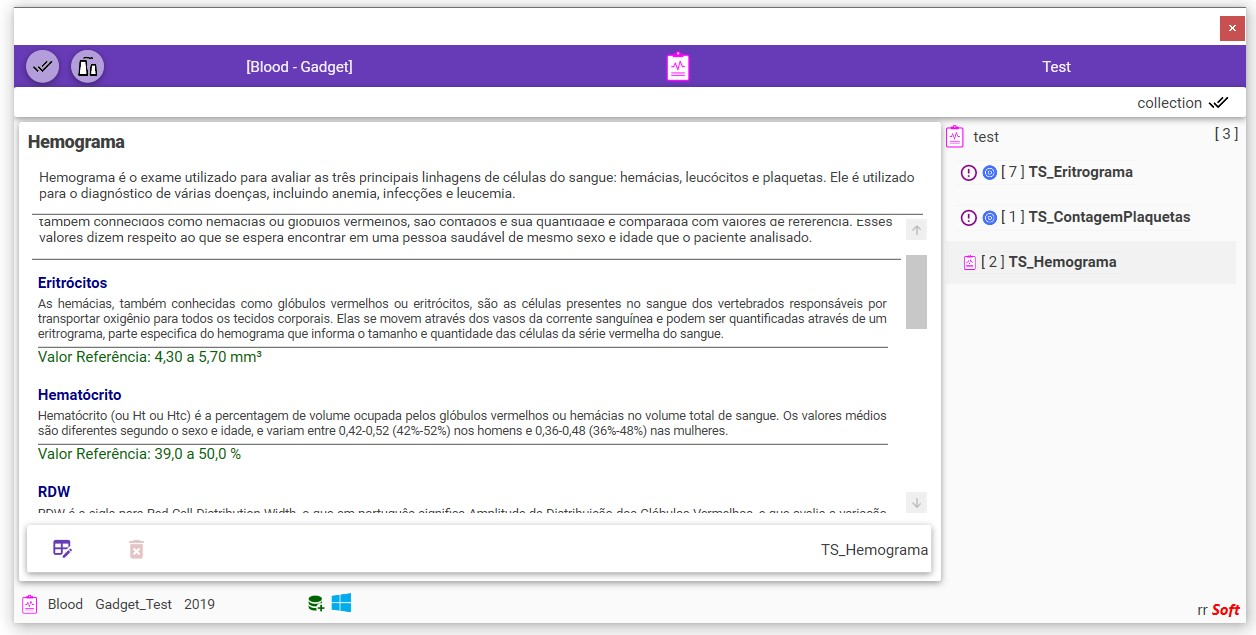
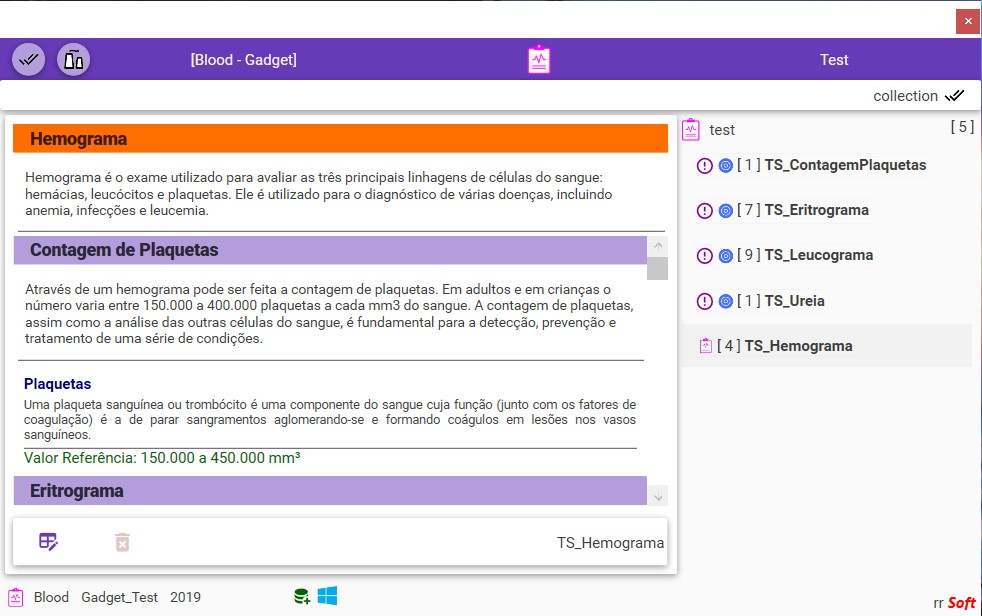
update

Changed region(s): [[0.0, 0.0, 1.0, 1.0]]

diff --git a/Gadget/MedicalTest/Test/Modules/Collection/Collection/Pattern/Views/CollectionListView.xaml b/Gadget/MedicalTest/Test/Modules/Collection/Collection/Pattern/Views/CollectionListView.xaml
@@ -2,6 +2,7 @@
                     xmlns="http://schemas.microsoft.com/winfx/2006/xaml/presentation"
                     xmlns:x="http://schemas.microsoft.com/winfx/2006/xaml"
                     xmlns:base="clr-namespace:rr.Library.Infrastructure;assembly=rr.Library.Infrastructure"
+                    xmlns:scm="clr-namespace:System.ComponentModel;assembly=WindowsBase"
                     xmlns:caliburn="http://www.caliburnproject.org"
                     DataContext="{x:Null}"
                     x:Name="ModuleCollectionListViewModel">
@@ -12,6 +13,11 @@
             <CollectionViewSource.GroupDescriptions>
                 <PropertyGroupDescription PropertyName="RelationCategory" />
             </CollectionViewSource.GroupDescriptions>
+
+            <CollectionViewSource.SortDescriptions>
+                <scm:SortDescription PropertyName="Name"
+                                     Direction="Ascending" />
+            </CollectionViewSource.SortDescriptions>
         </CollectionViewSource>
 
         <DataTemplate x:Key="ListDataTemplate">

diff --git a/Gadget/MedicalTest/Test/Modules/Factory/Factory/Pattern/Models/FactoryPropertyModel.cs b/Gadget/MedicalTest/Test/Modules/Factory/Factory/Pattern/Models/FactoryPropertyModel.cs
@@ -40,11 +40,12 @@ namespace Gadget.Factory.Pattern.Models
     #endregion
 
     #region Members
-    internal void RefreshModel (Server.Models.Component.TEntityAction action)
+    internal void EditEnter (Server.Models.Component.TEntityAction action)
     {
       if (action.NotNull ()) {
-        //TODO: review
-        
+        ComponentModelProperty.SelectModel (action);
+
+        ValidateProperty ("TextProperty");
       }
     }
 
@@ -68,23 +69,25 @@ namespace Gadget.Factory.Pattern.Models
 
     internal void ValidateProperty (string propertyName)
     {
-      AlertsModel.Select (isOpen: false); // default
+      if (propertyName.Equals ("TextProperty")) {
+        AlertsModel.Select (isOpen: false); // default
 
-      var textProperty = ComponentModelProperty.ExtensionModel.TextProperty;
-      bool validateModel = string.IsNullOrEmpty (textProperty).IsFalse ();
+        var textProperty = ComponentModelProperty.ExtensionModel.TextProperty;
+        bool validateModel = string.IsNullOrEmpty (textProperty).IsFalse ();
 
-      ComponentModelProperty.ValidateModel (validateModel);
+        ComponentModelProperty.ValidateModel (validateModel);
 
-      // show alerts
-      if (validateModel.IsFalse ()) {
-        var message = $"Test (Text = EMPTY)";
+        // show alerts
+        if (validateModel.IsFalse ()) {
+          var message = $"Test (Text = EMPTY)";
 
-        AlertsModel.Select (TAlertsModel.TKind.Warning);
-        AlertsModel.Select ("ENTRY EMPTY", message);
-        AlertsModel.Select (isOpen: true);
+          AlertsModel.Select (TAlertsModel.TKind.Warning);
+          AlertsModel.Select ("ENTRY EMPTY", message);
+          AlertsModel.Select (isOpen: true);
+        }
+
+        AlertsModel.Refresh ();
       }
-
-      AlertsModel.Refresh ();
     }
 
     internal void Cleanup ()

diff --git a/Server/Models/Component/Blood.Server.Models.Component/Entity/Gadget/Test/GadgetTestEntity.cs b/Server/Models/Component/Blood.Server.Models.Component/Entity/Gadget/Test/GadgetTestEntity.cs
@@ -7,6 +7,7 @@
 using System;
 using System.Collections.Generic;
 using System.Collections.ObjectModel;
+using System.Linq;
 //---------------------------//
 
 namespace Server.Models.Component
@@ -201,7 +202,12 @@ namespace Server.Models.Component
             if (IsCategoryTest) {
               collection.Clear ();
 
-              foreach (var item in TestCollection) {
+              var list = TestCollection
+                .OrderBy (p => p.Test)
+                .ToList ()
+              ;
+
+              foreach (var item in list) {
                 collection.Add (item);
               }
             }
@@ -216,7 +222,12 @@ namespace Server.Models.Component
             if (IsCategoryTarget) {
               collection.Clear ();
 
-              foreach (var item in TargetCollection) {
+              var list = TargetCollection
+                .OrderBy (p => p.Target)
+                .ToList ()
+              ;
+
+              foreach (var item in list) {
                 collection.Add (item);
               }
             }

diff --git a/Gadget/MedicalTest/Test/Modules/Factory/Factory/Pattern/ViewModels/FactoryPropertyViewModel.cs b/Gadget/MedicalTest/Test/Modules/Factory/Factory/Pattern/ViewModels/FactoryPropertyViewModel.cs
@@ -234,7 +234,7 @@ namespace Gadget.Factory.Pattern.ViewModels
       if (action.Id.NotEmpty ()) {
         SelectViewMode (TViewMode.Edit);
 
-        Model.SelectModel (action);
+        Model.EditEnter (action);
 
         TDispatcher.Invoke (RefreshAllDispatcher);
         TDispatcher.Invoke (EditEnterDispatcher);
@@ -250,9 +250,10 @@ namespace Gadget.Factory.Pattern.ViewModels
 
     void RefreshModelDispatcher (Server.Models.Component.TEntityAction action)
     {
+      //TODO: what for??
       action.ThrowNull ();
 
-      Model.RefreshModel (action);
+      //Model.RefreshModel (action);
       RaiseChanged ();
     }
     #endregion

diff --git a/Shared/MedicalTest/Test/Blood.Shared.Gadget.Test/Shared/Controls/ComponentControlModel.cs b/Shared/MedicalTest/Test/Blood.Shared.Gadget.Test/Shared/Controls/ComponentControlModel.cs
@@ -149,6 +149,8 @@ namespace Shared.Gadget.Test
               var contents = new Collection<Server.Models.Component.GadgetTest> ();
               ControlModel.RequestContent (contents);
 
+              ComponentControlModels.Clear ();
+
               foreach (var gadgetContent in contents) {
                 var componentControlModel = TComponentControlModel.CreateDefault;
                 componentControlModel.ControlModel.CopyFrom (gadgetContent);
